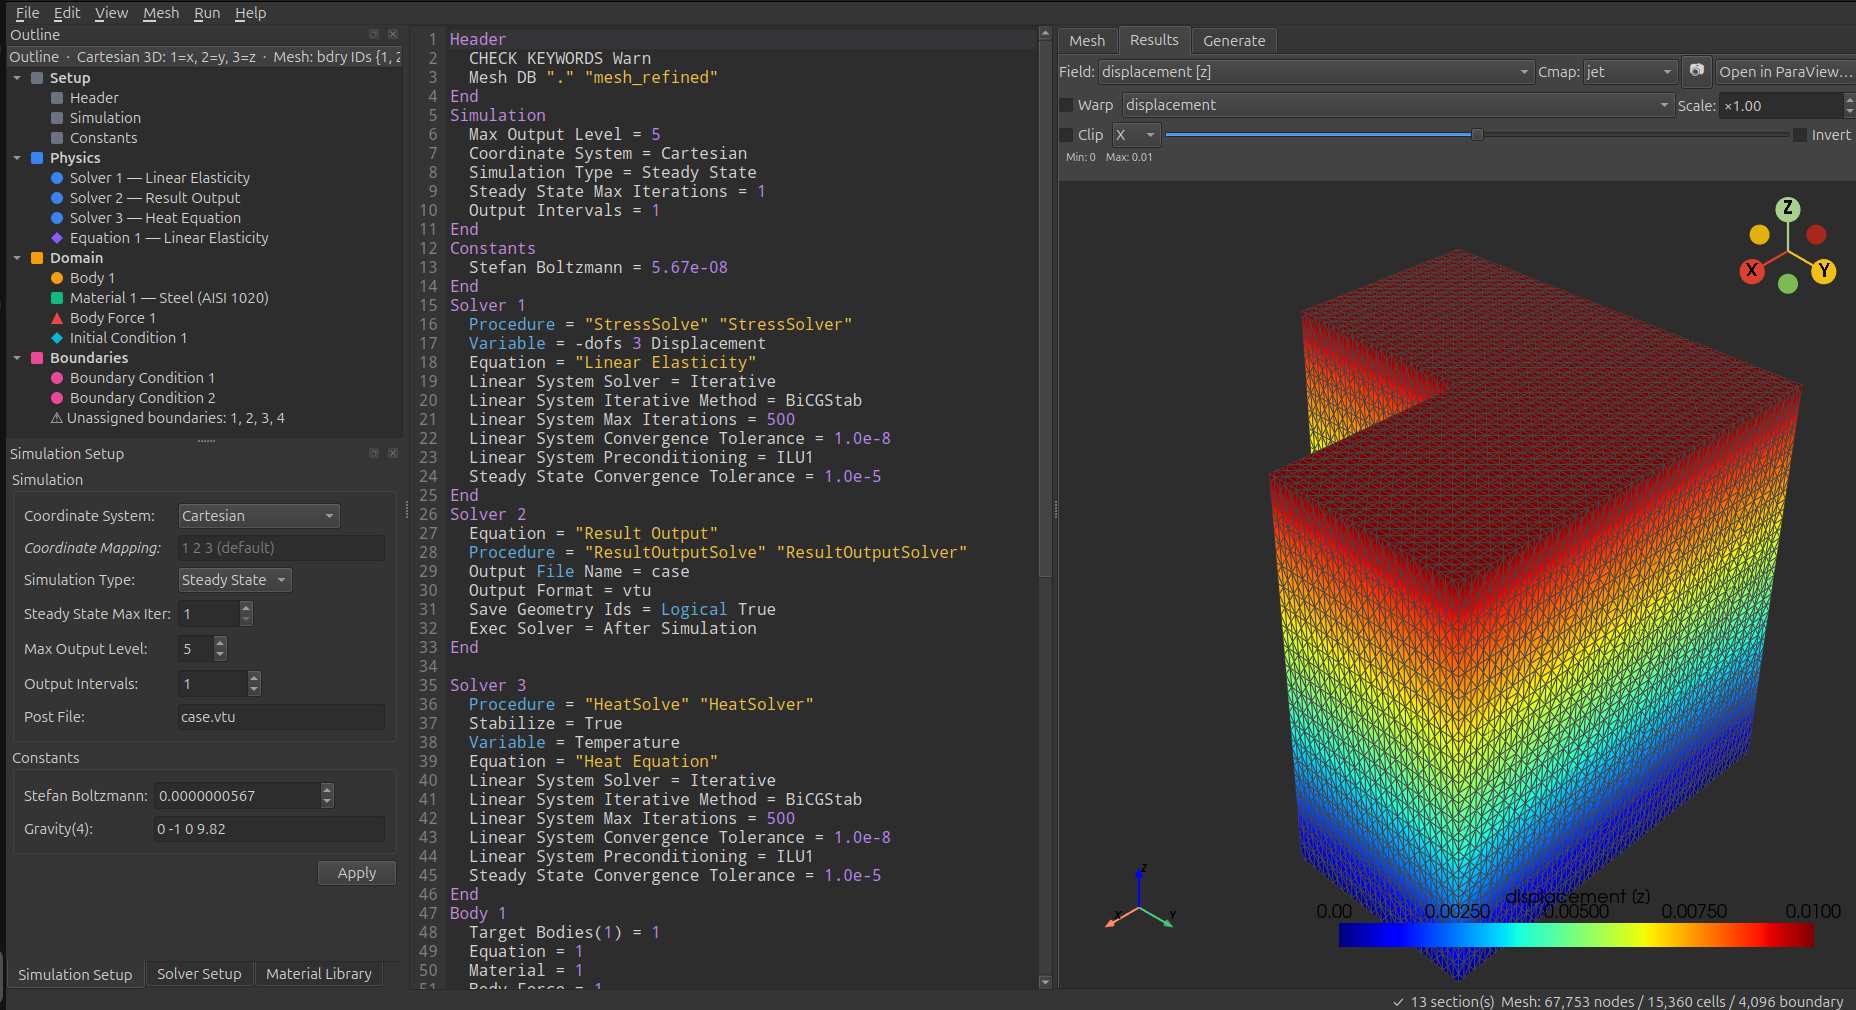
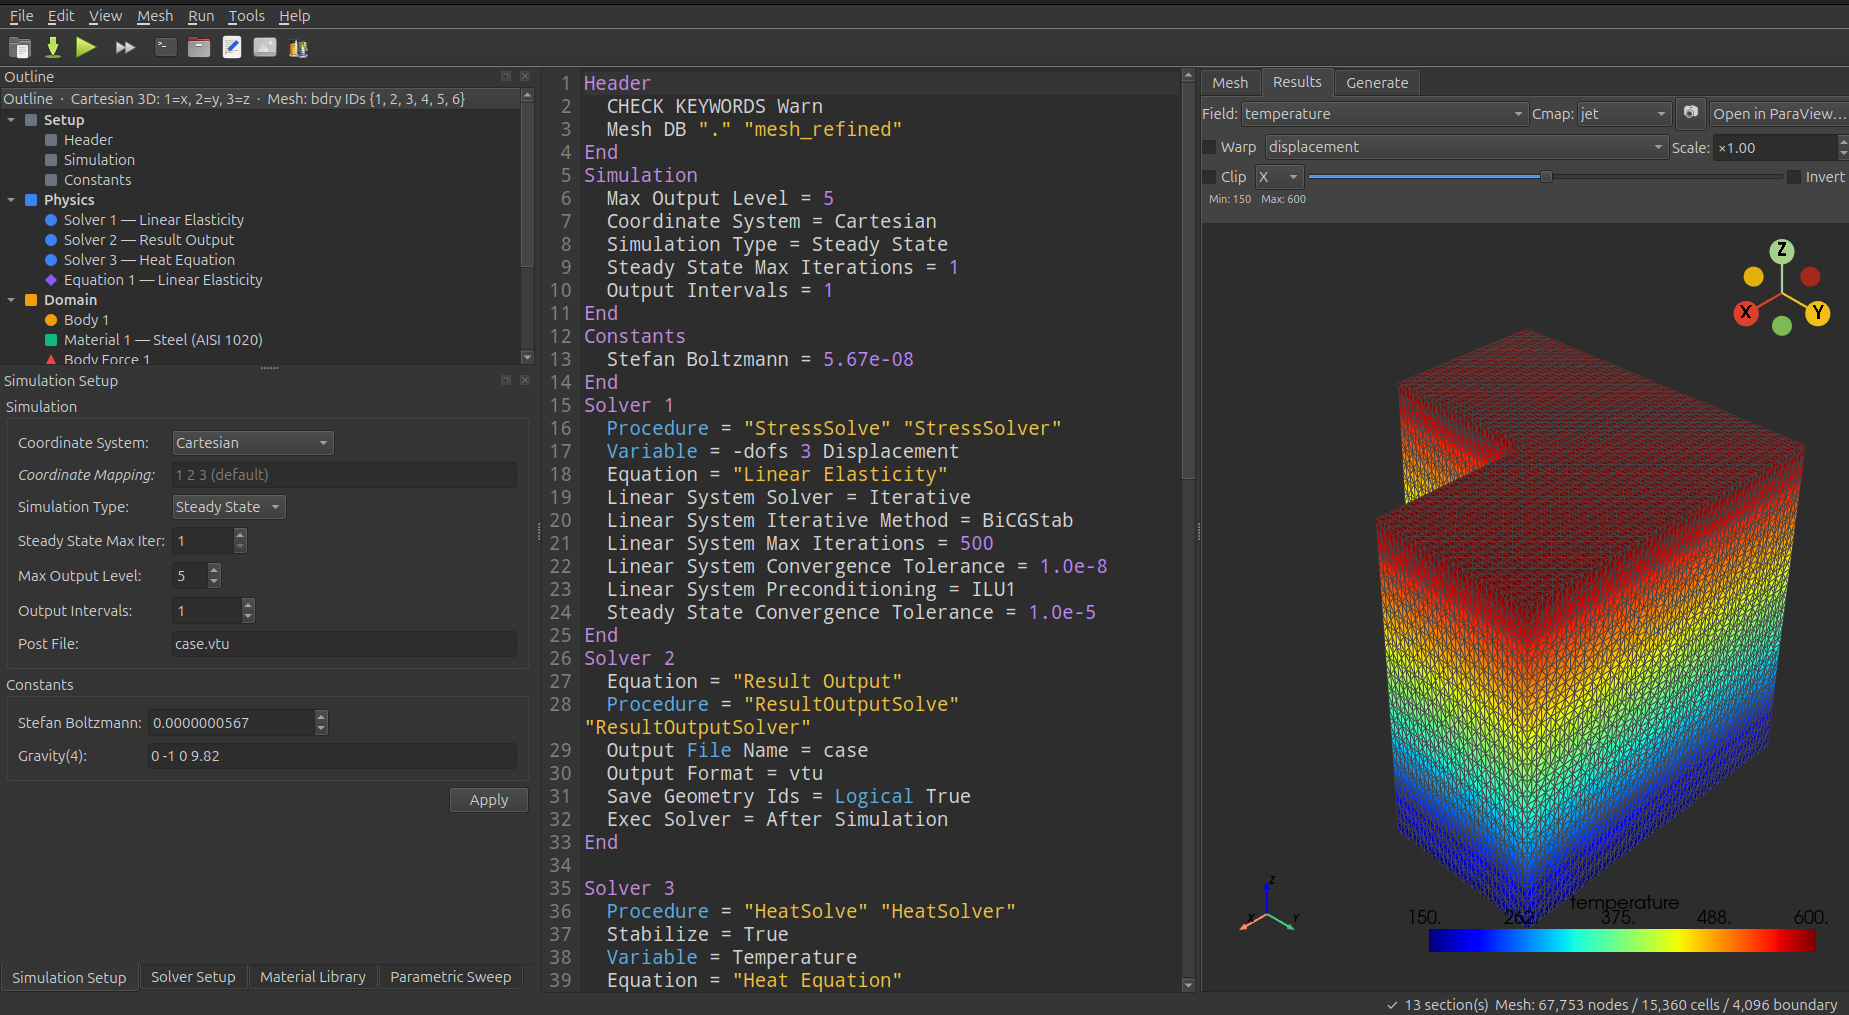
update femstudio preview images

diff --git a/_pages/femstudio.md b/_pages/femstudio.md
@@ -187,8 +187,7 @@ description: ElmerStudio — a modern desktop GUI for the Elmer FEM solver, born
 <div class="row mt-3">
   <div class="col-md-12">
     <img src="{{ '/assets/img/femstudio/mesh_generator.png' | relative_url }}"
-         alt="Mesh generator with subcell controls on the left, 2D paint canvas on the right, and a live 3D preview of the resulting cylinder mesh below"
-         class="img-fluid rounded z-depth-1">
+         alt="Mesh generator across four geometry templates: a rectangle with a hole, an axisymmetric solid cylinder, a hollow polar cylindrical shell, and a curved domain produced via geometry mappings. The 2D paint canvas, parametric controls, and live 3D preview update together as you edit.">
     <p class="text-center mt-2">
       <small class="text-muted">
         Mesh generator: parametric controls, 2D paint canvas for